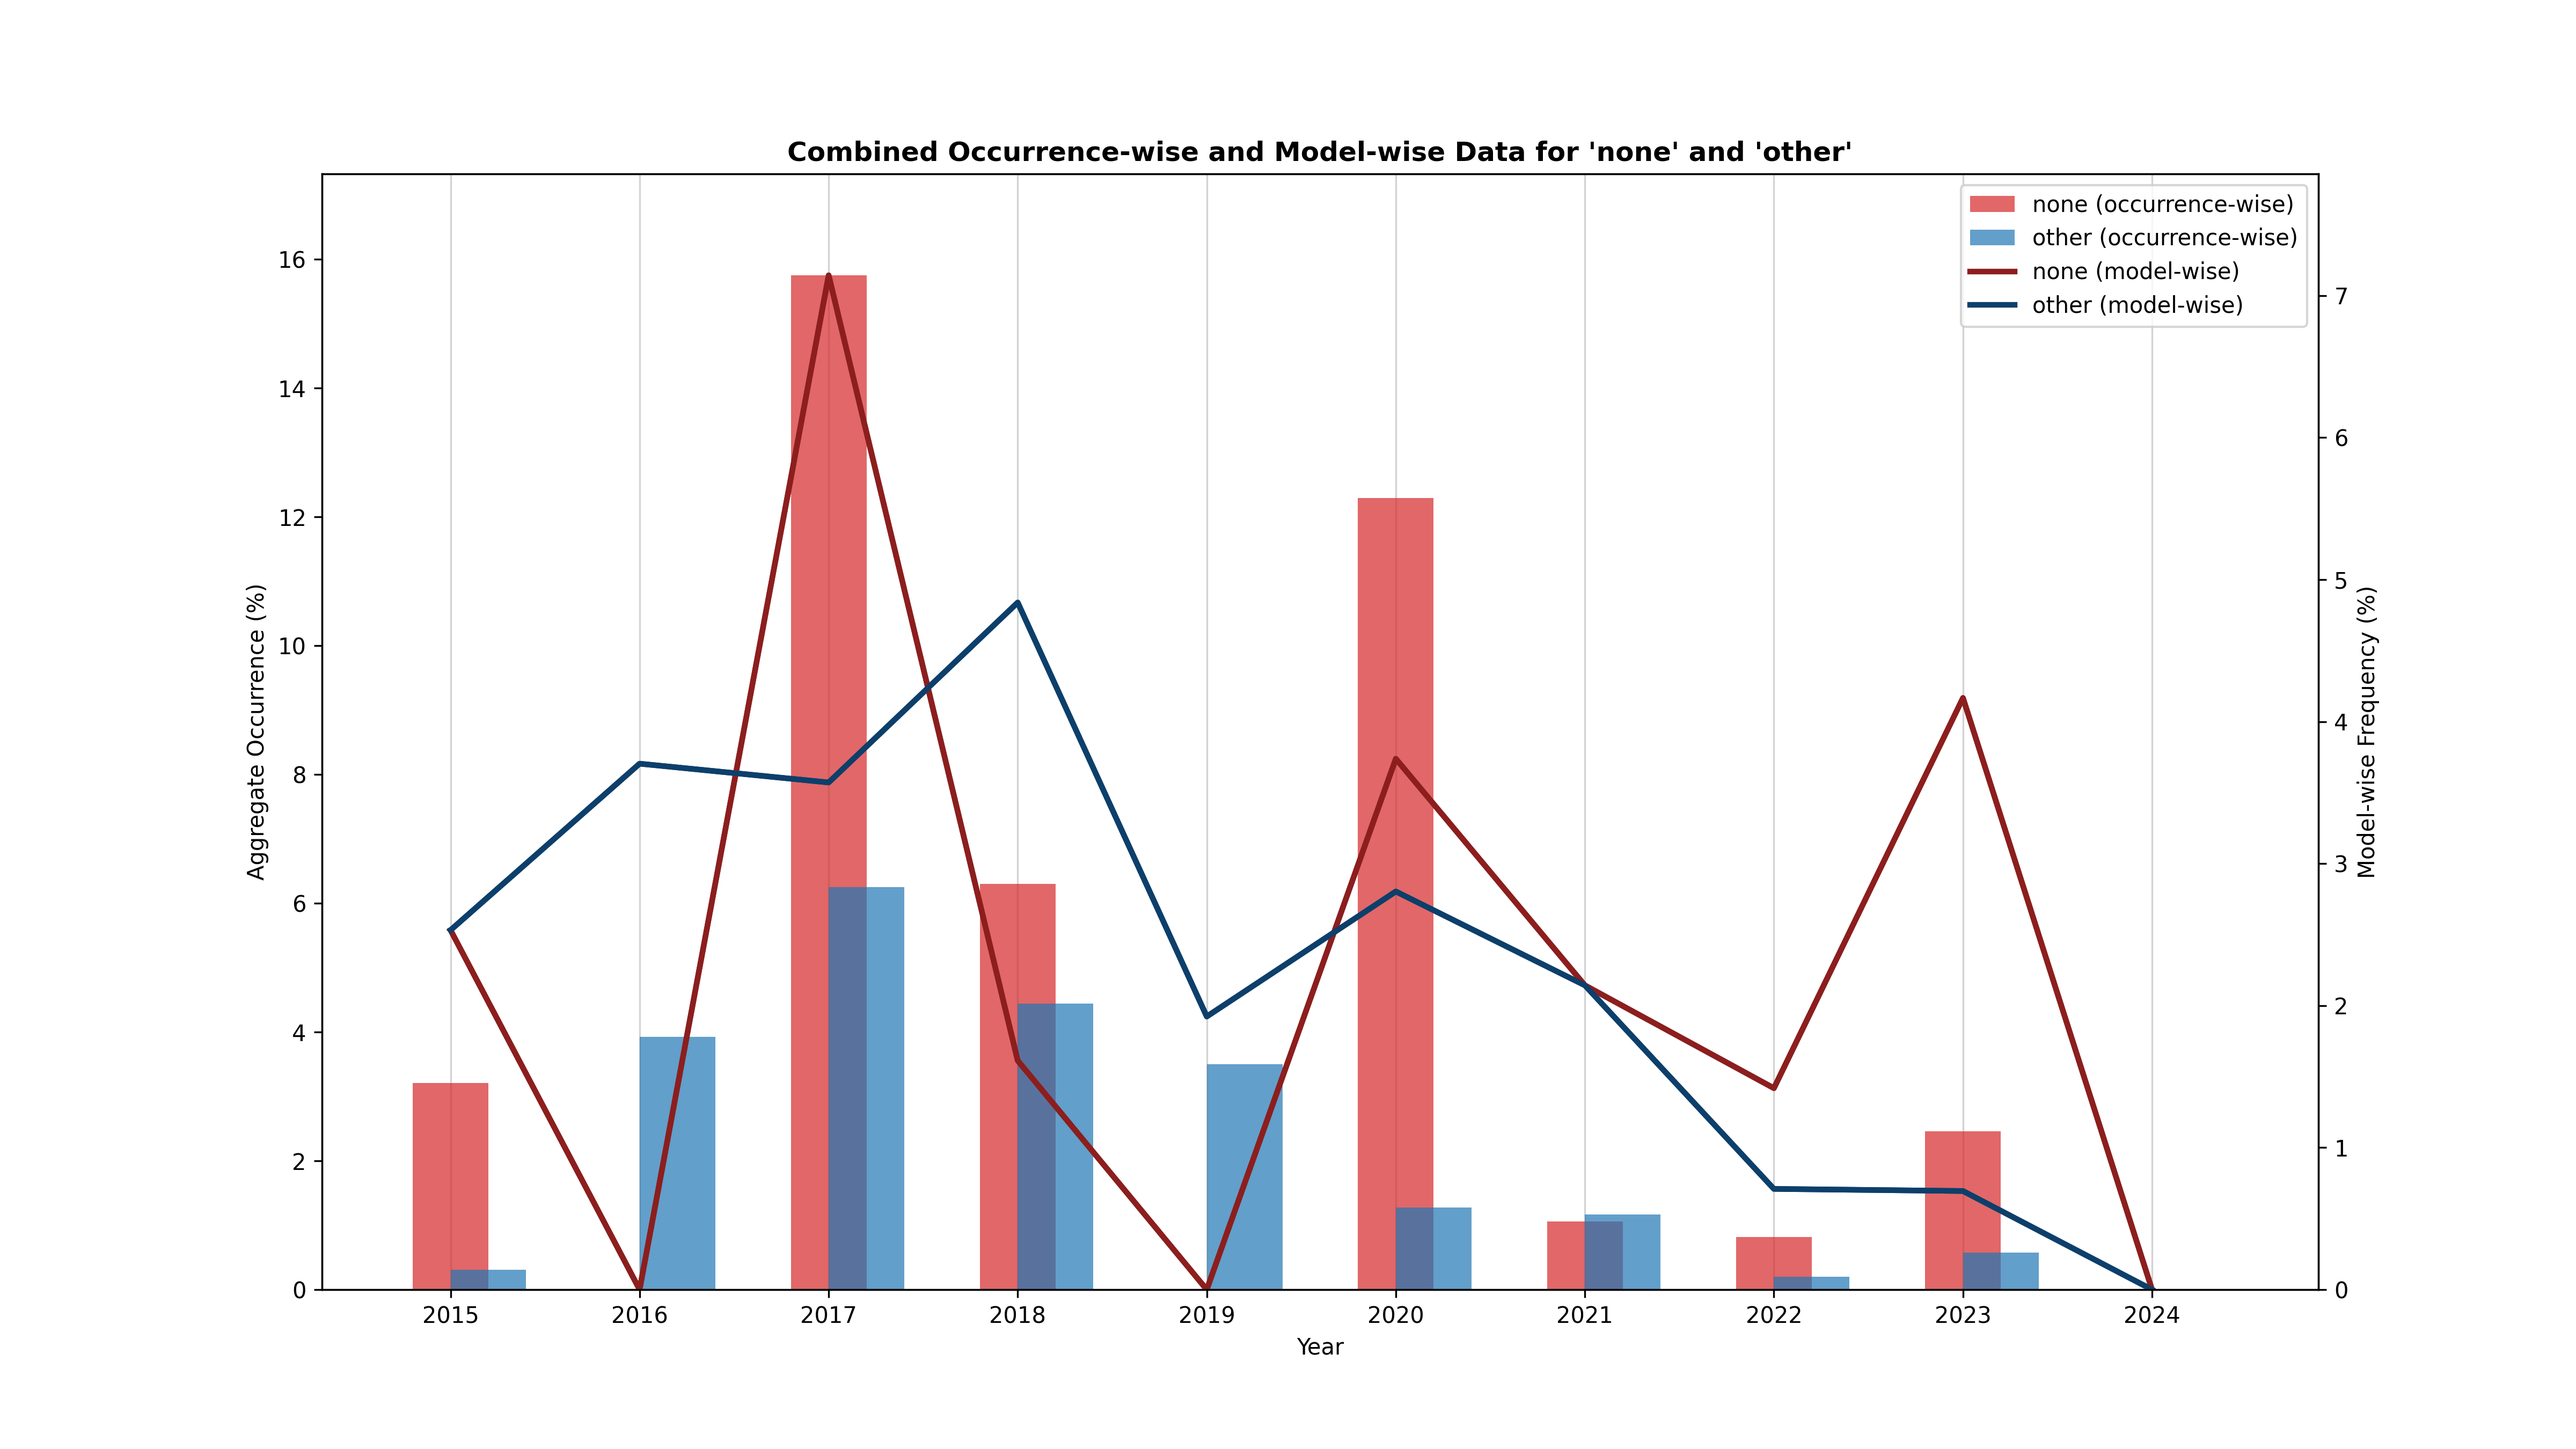
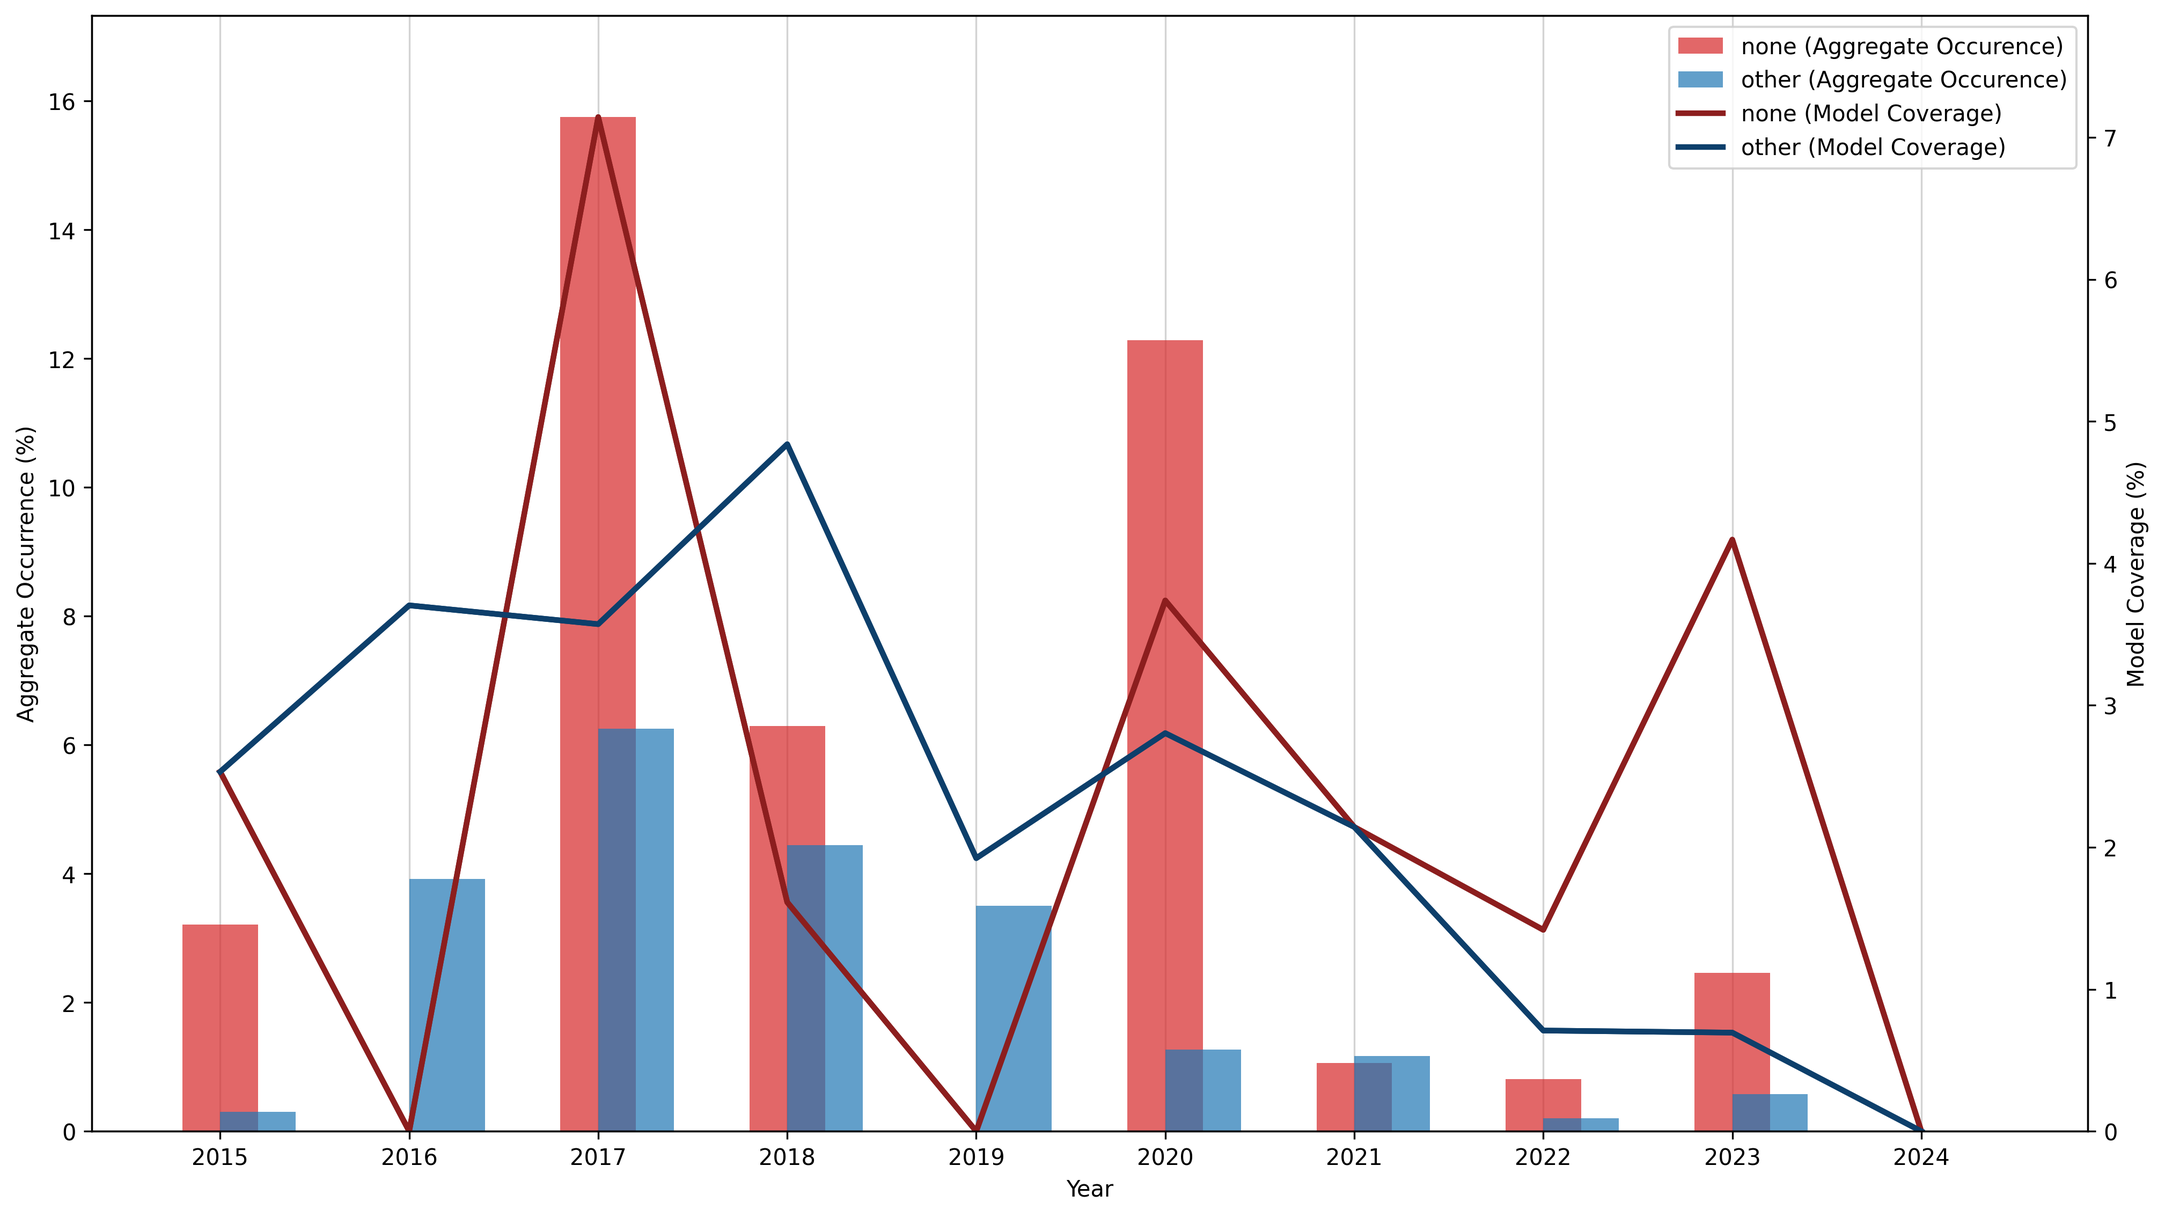
Non-OntoUML chart concluded.

diff --git a/src/step3_output.py b/src/step3_output.py
@@ -297,9 +297,9 @@ def generate_non_ontouml_combined_visualization(df_occurrence, df_modelwise, out
 
     # Barplot for occurrence-wise frequencies ('none' and 'other') with bars side by side
     ax1.bar(df_occurrence['year'], df_occurrence['none'], color=bar_colors['none'], alpha=0.7,
-            label='none (occurrence-wise)', width=0.4, align='center')
+            label='none (Aggregate Occurence)', width=0.4, align='center')
     ax1.bar(df_occurrence['year'], df_occurrence['other'], color=bar_colors['other'], alpha=0.7,
-            label='other (occurrence-wise)', width=0.4, align='edge')
+            label='other (Aggregate Occurence)', width=0.4, align='edge')
 
     # Set labels for the first y-axis (occurrence-wise)
     ax1.set_xlabel('Year')
@@ -332,7 +332,7 @@ def generate_non_ontouml_combined_visualization(df_occurrence, df_modelwise, out
         ax2.set_ylim(0, 1)  # Set a default range if max_modelwise is zero or very small
 
     # Set labels for the second y-axis (model-wise)
-    ax2.set_ylabel('Model-wise Frequency (%)', color='black')
+    ax2.set_ylabel('Model Coverage (%)', color='black')
     ax2.tick_params(axis='y', labelcolor='black')
 
     # Align both y-axes to have their zero points match
@@ -352,24 +352,26 @@ def generate_non_ontouml_combined_visualization(df_occurrence, df_modelwise, out
     # Generate a figure name from the file_name (remove extension and append .png)
     fig_name = f"non_ontouml_combined_visualization_{file_name}.png"
 
-    # Add title
-    plt.title(title, fontweight='bold')
+    # Title ommited for the paper
+    # plt.title(title, fontweight='bold')
 
     # Plot model-wise frequencies ('none' and 'other') as lines without adding extra legends
     line_none, = ax2.plot(df_modelwise['year'], df_modelwise['none'], color=line_colors['none'], linewidth=2.5,
-                          label='none (model-wise)')
+                          label='none (Model Coverage)')
     line_other, = ax2.plot(df_modelwise['year'], df_modelwise['other'], color=line_colors['other'], linewidth=2.5,
-                           label='other (model-wise)')
+                           label='other (Model Coverage)')
 
     # Combine legends for both occurrence-wise and model-wise data
     handles1, labels1 = ax1.get_legend_handles_labels()  # Handles for the bars (occurrence-wise)
     handles2 = [line_none, line_other]  # Manually get handles for the lines (model-wise)
 
     # Display the combined legend in the top left corner
-    ax1.legend(handles1 + handles2, labels1 + ['none (model-wise)', 'other (model-wise)'], loc='upper right')
+    ax1.legend(handles1 + handles2, labels1 + ['none (Model Coverage)', 'other (Model Coverage)'], loc='upper right')
+
+    # plt.tight_layout()
 
     # Save the figure
-    plt.savefig(os.path.join(out_dir_path, fig_name), dpi=300)
+    plt.savefig(os.path.join(out_dir_path, fig_name), dpi=300, bbox_inches='tight')
     logger.success(f"Figure {fig_name} successfully saved in {out_dir_path}.")
 
     # Close the plot to free memory
